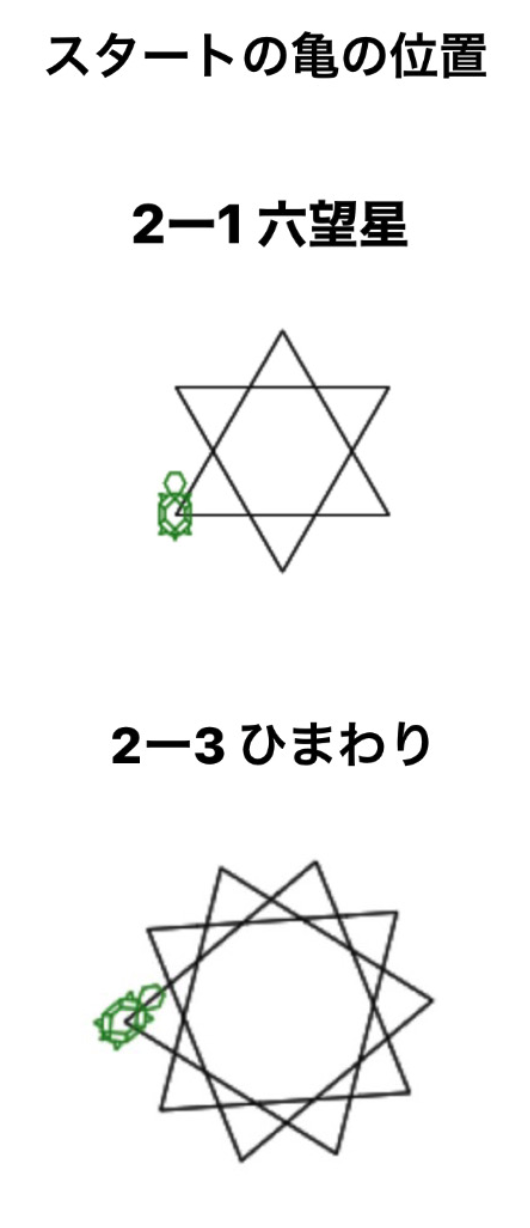
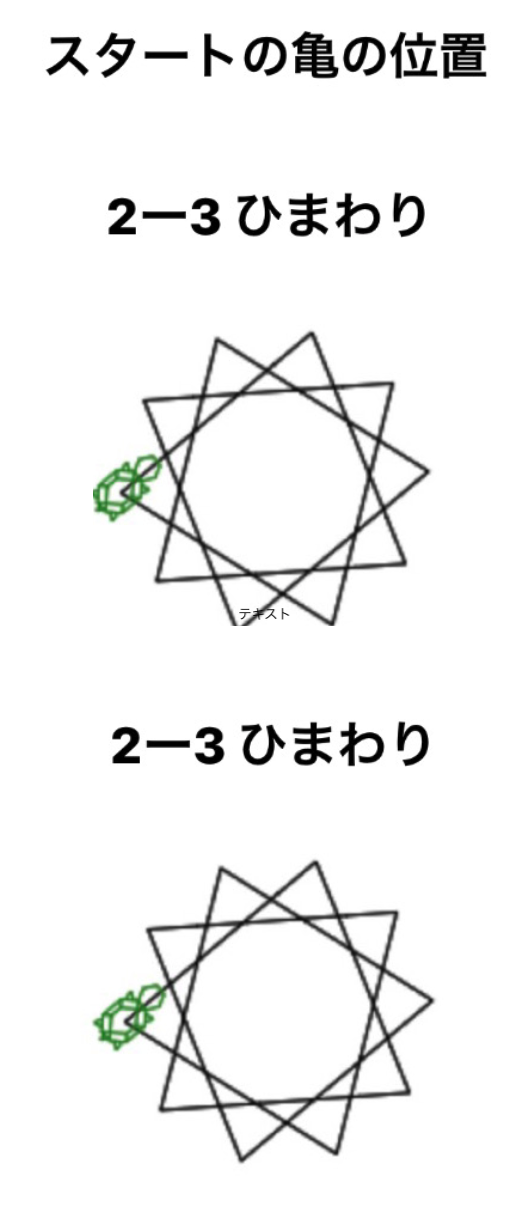
p2　完成版

Changed region(s): [[0.1811, 0.2476, 0.7849, 0.5261], [0.2113, 0.1547, 0.8151, 0.2166], [0.7547, 0.3713, 0.8151, 0.4023]]

diff --git a/jigsaw/p2/index.html b/jigsaw/p2/index.html
@@ -18,34 +18,29 @@
   <!-- <p class="double-bottom"></p> -->
 
   <p class="sanae1">
-    <a href="https://cc-study.appspot.com/jigsaw-code2/puzzle_sentence_2?txt=https://cc-study.appspot.com/jigsaw-code-2-puzzle/puzzle/1j2rz--obolk0g6xOQotZSU-1Njs4O5p_SqAPGaLBOjg&mime_type=application/vnd.google-apps.spreadsheet&title=%E5%85%AD%E8%8A%92%E6%98%9F%E3%82%92%E3%81%8B%E3%81%8F%E3%83%97%E3%83%AD%E3%82%B0%E3%83%A9%E3%83%A0%E3%80%802020%E3%80%80"
-      target="exp">2-1六望星</a> を描くプログラムを生成してください。
+    <a href="https://cc-study.appspot.com/jigsaw-code2/puzzle_sentence_2?txt=https://cc-study.appspot.com/jigsaw-code-2-puzzle/puzzle/10pm0g2vtP3QpwUoJyhpToqnD_-RAaNNedYaLzS4-tQ4&mime_type=application/vnd.google-apps.spreadsheet&title=%E9%99%BD%E6%80%A7%E8%80%85%E6%95%B0%202020"
+      target="exp">2-1陽性者数</a> を出力するプログラムを生成してください。
   </p>
 
   <p class="sanae1">
-    <a href="https://cc-study.appspot.com/jigsaw-code2/puzzle_sentence_2?txt=https://cc-study.appspot.com/jigsaw-code-2-puzzle/puzzle/1GEhr5FUEw1lpCL-U_Sl--s32wVLdNazQgR_XIlQ8pJE&mime_type=application/vnd.google-apps.spreadsheet&title=%E9%9A%8E%E4%B9%97%E3%80%802020"
-      target="exp">2-2階乗</a> を出力するプログラムを出力してください。
+    <a href="https://cc-study.appspot.com/jigsaw-code2/puzzle_sentence_2?txt=https://cc-study.appspot.com/jigsaw-code-2-puzzle/puzzle/13SrmFW6r1lN60N6Tm7fA5VGLdRYVIt034P0kRMU_W94&mime_type=application/vnd.google-apps.spreadsheet&title=%E3%81%B2%E3%81%BE%E3%82%8F%E3%82%8A"
+      target="exp">2-2ひまわり</a> を出力するプログラムを生成してください。
   </p>
-  <p class="sanae1">
-    <a href="https://cc-study.appspot.com/jigsaw-code2/puzzle_sentence_2?txt=https://cc-study.appspot.com/jigsaw-code-2-puzzle/puzzle/13SrmFW6r1lN60N6Tm7fA5VGLdRYVIt034P0kRMU_W94&mime_type=application/vnd.google-apps.spreadsheet&title=%E3%81%B2%E3%81%BE%E3%82%8F%E3%82%8Apart3"
-      target="exp">2-3ひまわり</a> を描くプログラムを出力してください。
-  </p>
+ 
   <p class="double-bottom"></p>
   <div style="float: left; width: 20%; text-align: center;">
-    <img src="p2image.png" alt="写真" width="60%">
+    <img src="image3.jpg" alt="写真" width="60%">
     <p class="sanae1"> <a href="https://forms.gle/iZuDY3uT16QuU1yM8" target="_blank"
         rel="noopener noreferrer">2-1のdocument id を送信</a>
     </p>
     <p class="sanae1"> <a href="https://forms.gle/Xp8NmirNuKUSjoRD8" target="_blank"
         rel="noopener noreferrer">2-2のdocument id を送信</a>
     </p>
-    <p class="sanae1"> <a href="https://forms.gle/hHESGLexT2D9p2S86" target="_blank"
-        rel="noopener noreferrer">2-3のdocument id を送信</a>
-    </p>
+    
   </div>
   <div style="float: left; width: 79%; border: solid 1px black;">
     <iframe
-      src="https://cc-study.appspot.com/jigsaw-code2/puzzle_sentence_2?txt=https://cc-study.appspot.com/jigsaw-code-2-puzzle/puzzle/1j2rz--obolk0g6xOQotZSU-1Njs4O5p_SqAPGaLBOjg&mime_type=application/vnd.google-apps.spreadsheet&title=%E5%85%AD%E8%8A%92%E6%98%9F%E3%82%92%E3%81%8B%E3%81%8F%E3%83%97%E3%83%AD%E3%82%B0%E3%83%A9%E3%83%A0%E3%80%802020%E3%80%80"
+      src="https://cc-study.appspot.com/jigsaw-code2/puzzle_sentence_2?txt=https://cc-study.appspot.com/jigsaw-code-2-puzzle/puzzle/10pm0g2vtP3QpwUoJyhpToqnD_-RAaNNedYaLzS4-tQ4&mime_type=application/vnd.google-apps.spreadsheet&title=%E9%99%BD%E6%80%A7%E8%80%85%E6%95%B0%202020"
       name="exp" height="700" width="100%" scrolling="yes">
     </iframe>
   </div>
